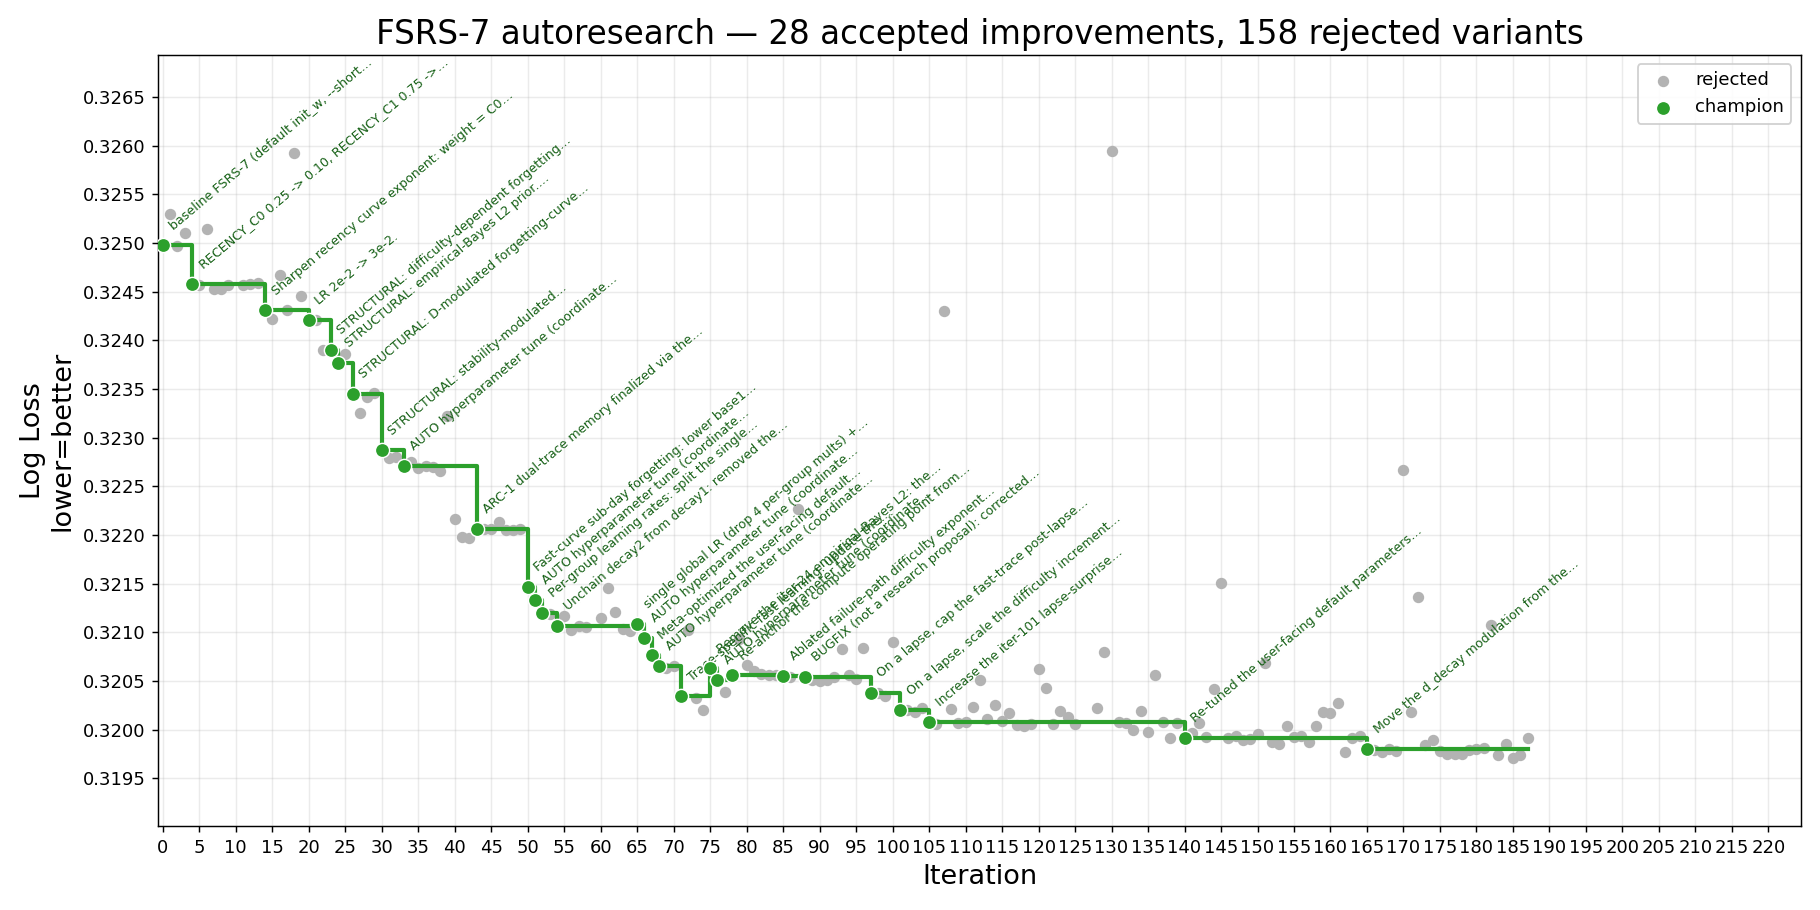
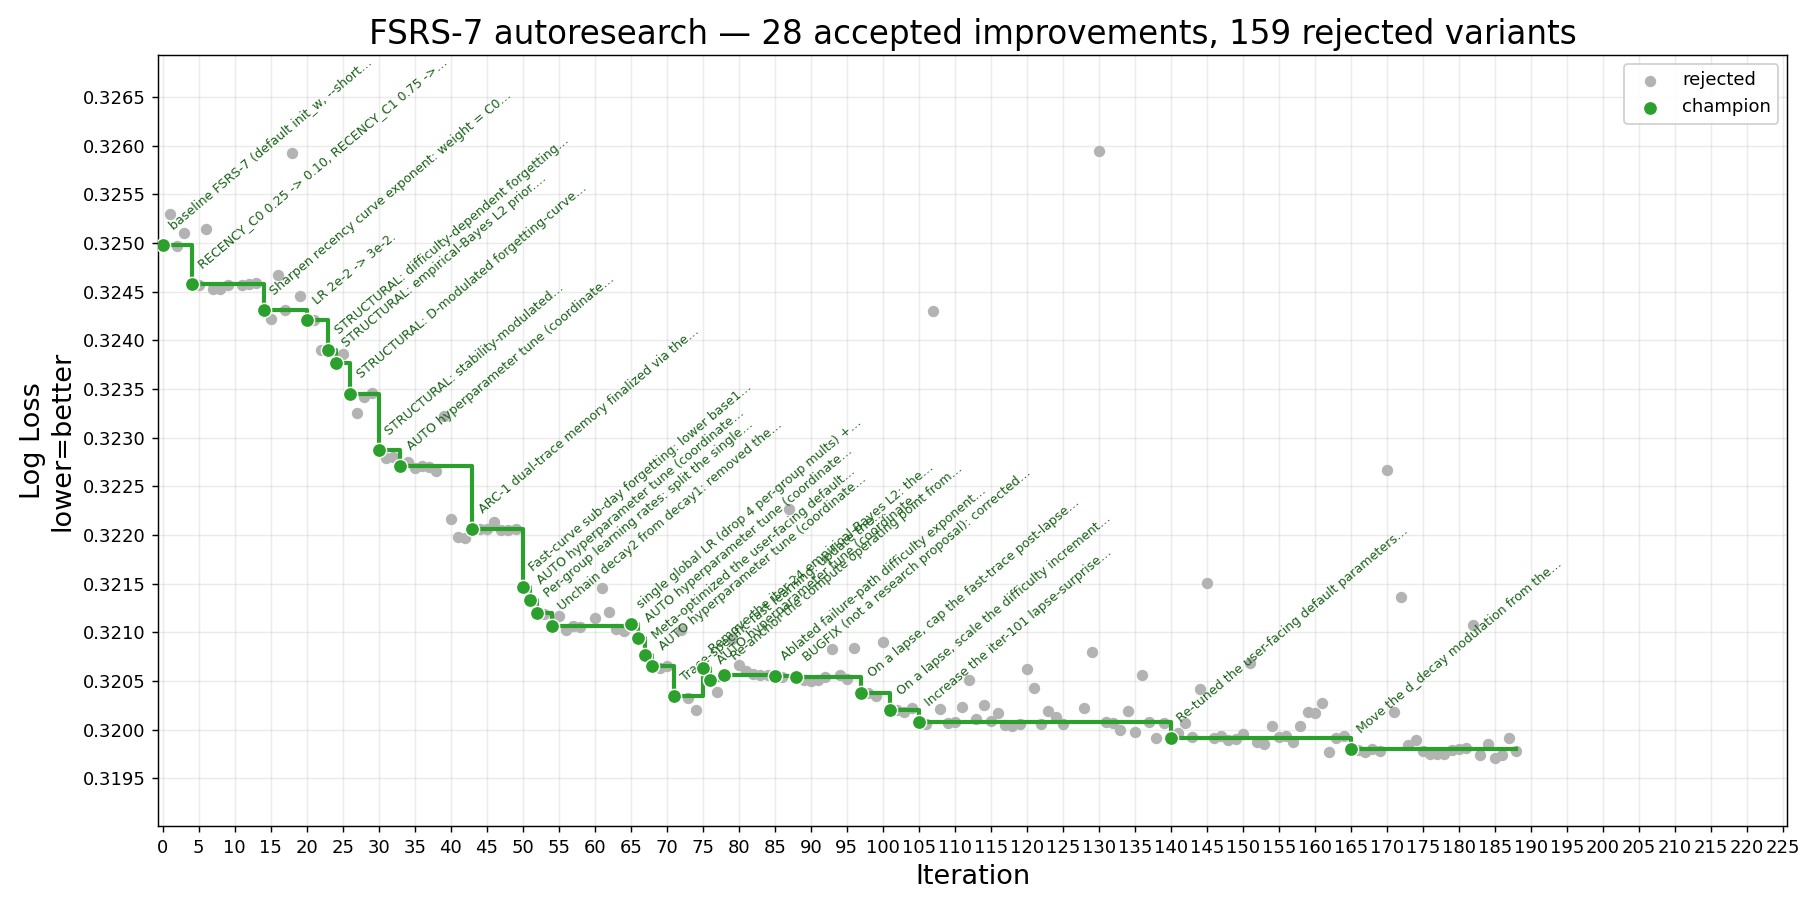
iter-188 rejected (near-miss +2.7e-5): size-aware per-row LR (alpha=-0.25 optimum); third independent sub-bar training lever

diff --git a/result/history.md b/result/history.md
@@ -1,6 +1,6 @@
 # FSRS-7 autoresearch — iteration history
 
-_187 record(s). Generated from `history.jsonl` — do not edit by hand._
+_188 record(s). Generated from `history.jsonl` — do not edit by hand._
 
 | # | Time (UTC) | Thresh. | LL before | LL after | Δ LL | Cx before | Cx after | Δ Cx % | Status | Summary |
 |--:|---|---:|---:|---:|---:|---:|---:|---:|---|---|
@@ -191,3 +191,4 @@ _187 record(s). Generated from `history.jsonl` — do not edit by hand._
 | 185 | 2026-06-10T15:30:19 | 0.0001 | 0.31980 | 0.31971 | +0.00009 | 17,690 | 17,929 | +1.35% | rejected | Batch decorrelation (fixed seeded within-row shuffle) + hp_tune coordinate descent of the 6 training knobs for the decorrelated regime. |
 | 186 | 2026-06-10T16:17:20 | 0.0001 | 0.31980 | 0.31974 | +0.00006 | 17,631 | 17,784 | +0.87% | rejected | SWA tail-averaging (eta_min 0.15, start_frac 0.75) + hp_tune of the 6 training knobs for the SWA regime. |
 | 187 | 2026-06-10T17:34:59 | 0.0001 | 0.31980 | 0.31991 | -0.00011 | 17,631 | 17,664 | +0.19% | rejected | Decouple the L2-to-default prior from Adam: anchor spring applied in the update (AdamW-style); bundled hp_tune. |
+| 188 | 2026-06-10T18:10:41 | 0.0001 | 0.31980 | 0.31978 | +0.00003 | 17,631 | 17,654 | +0.13% | rejected | Size-aware per-row LR: scale each row's LR by (n_steps/256)^alpha; sweep alpha +/-0.25, hp_tune bundle on the winner. |
